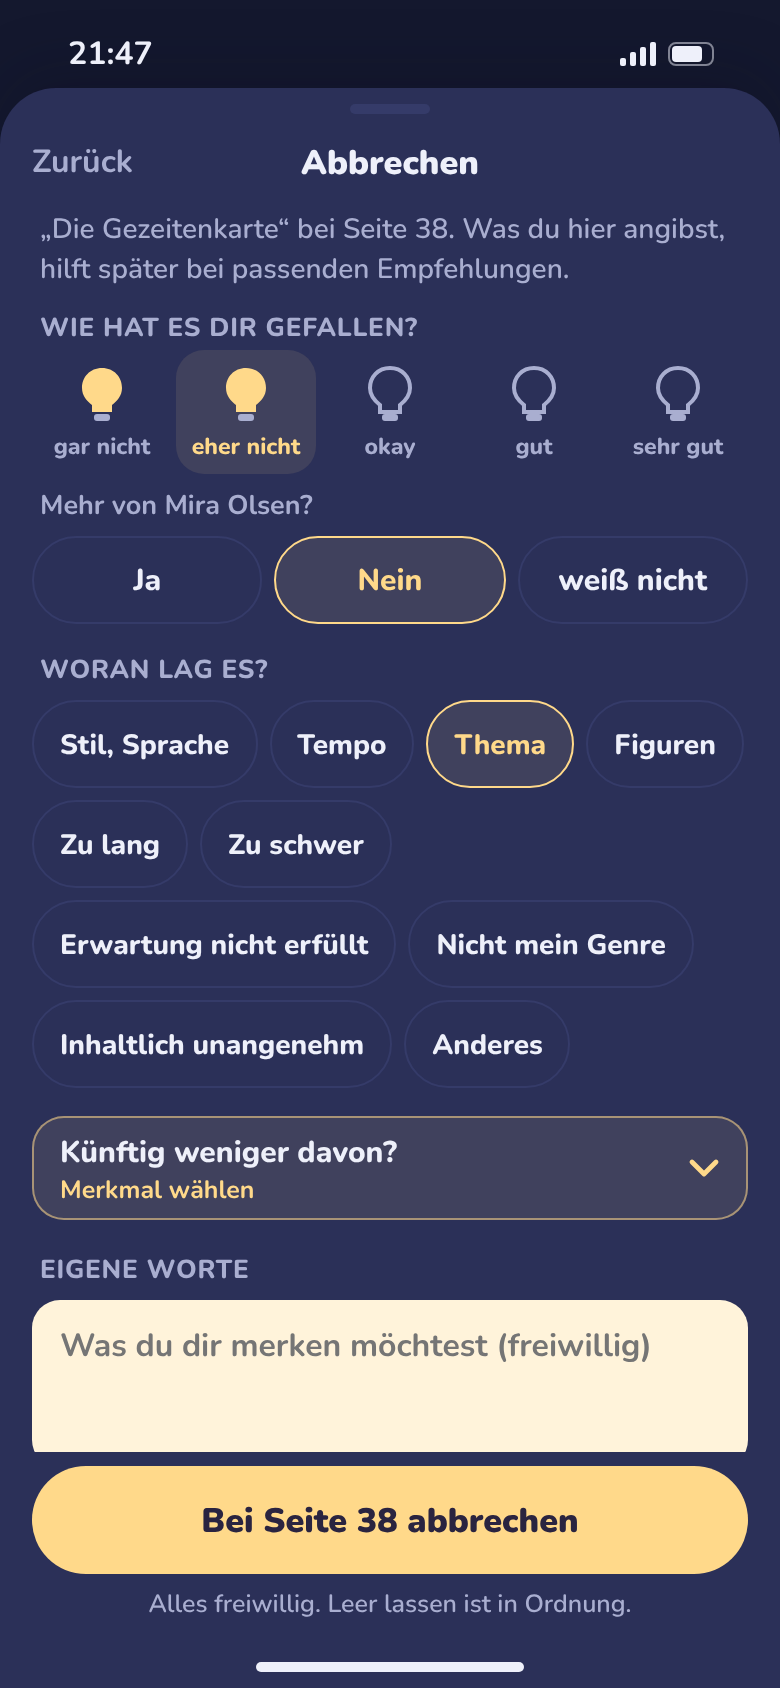
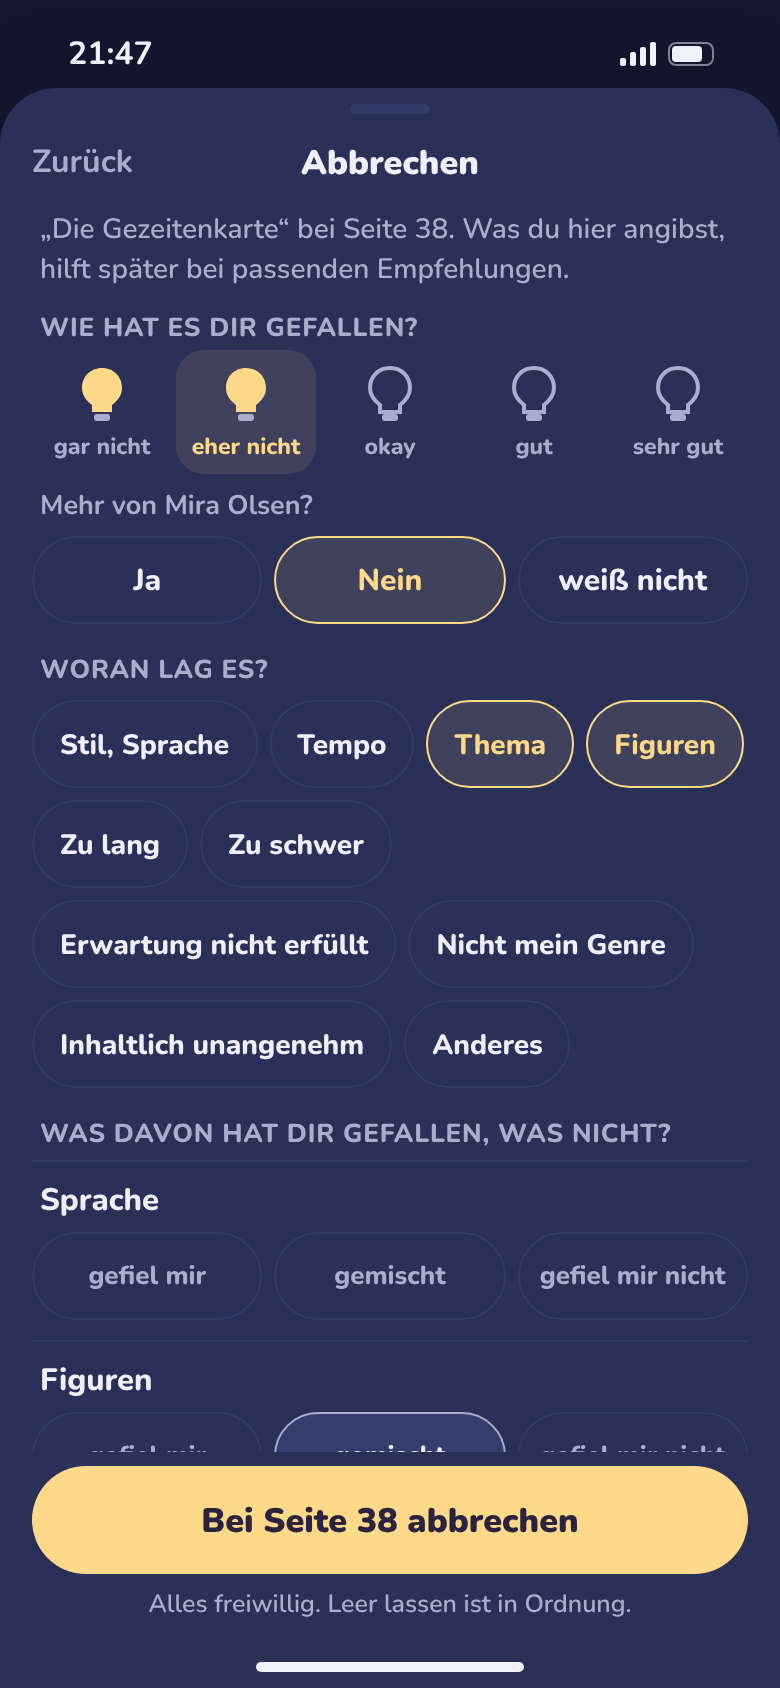
Prototyp: drei Knöpfe je Aspekt, weiß nicht als eigener Zustand, F4 setzt F3 sichtbar
Claude-Session: https://claude.ai/code/session_01XFBEjrJEUrXQYaFeZnVBdK

diff --git a/prototyp/designer/3-charakter/LichtAn.dc.html b/prototyp/designer/3-charakter/LichtAn.dc.html
@@ -563,18 +563,6 @@ input[type=search]::-webkit-search-cancel-button{display:none}
 <sc-for list="{{rv.again}}" as="o" hint-placeholder-count="3"><button type="button" role="radio" aria-checked="{{o.checked}}" onClick="{{o.pick}}" style="{{o.style}}">{{o.label}}</button></sc-for>
 </div>
 
-<sc-if value="{{rv.isRead}}" hint-placeholder-val="{{ true }}">
-<h3 style="margin: 14px 4px 4px 4px; font-size: 13px; font-weight: 800; color: var(--mute); letter-spacing: .03em">WAS HAT DIR GEFALLEN, WAS NICHT?</h3>
-<div role="list">
-<sc-for list="{{rv.aspects}}" as="a" hint-placeholder-count="5">
-<div role="listitem" style="display: flex; align-items: center; gap: 6px; min-height: 50px; border-top: 1px solid var(--line)">
-<span style="flex: 1; font-size: 15.5px; font-weight: 800; padding-left: 4px">{{a.label}}</span>
-<button type="button" aria-pressed="{{a.likePressed}}" aria-label="{{a.likeAria}}" onClick="{{a.like}}" style="{{a.likeStyle}}">gefiel mir</button>
-<button type="button" aria-pressed="{{a.dislikePressed}}" aria-label="{{a.dislikeAria}}" onClick="{{a.dislike}}" style="{{a.dislikeStyle}}">gefiel mir nicht</button>
-</div>
-</sc-for>
-</div>
-</sc-if>
 <sc-if value="{{rv.isDrop}}" hint-placeholder-val="{{ false }}">
 <h3 style="margin: 14px 4px 6px 4px; font-size: 13px; font-weight: 800; color: var(--mute); letter-spacing: .03em">WORAN LAG ES?</h3>
 <div role="group" aria-label="Gründe" style="display: flex; flex-wrap: wrap; gap: 6px">
@@ -587,6 +575,19 @@ input[type=search]::-webkit-search-cancel-button{display:none}
 </div>
 </sc-if>
 </sc-if>
+
+
+<h3 style="margin: 14px 4px 4px 4px; font-size: 13px; font-weight: 800; color: var(--mute); letter-spacing: .03em">WAS DAVON HAT DIR GEFALLEN, WAS NICHT?</h3>
+<div role="list">
+<sc-for list="{{rv.aspects}}" as="a" hint-placeholder-count="5">
+<div role="listitem" style="padding: 8px 0 10px 0; border-top: 1px solid var(--line)">
+<div style="display: flex; align-items: baseline; gap: 8px; padding: 0 4px 6px 4px"><span style="font-size: 15.5px; font-weight: 800">{{a.label}}</span><sc-if value="{{a.fromReason}}" hint-placeholder-val="{{ false }}"><span style="font-size: 12px; font-weight: 700; color: var(--acc)">aus deinem Abbruchgrund</span></sc-if></div>
+<div role="radiogroup" aria-label="{{a.label}}" style="display: grid; grid-template-columns: 1fr 1fr 1fr; gap: 6px">
+<sc-for list="{{a.opts}}" as="o" hint-placeholder-count="3"><button type="button" role="radio" aria-checked="{{o.checked}}" aria-label="{{o.aria}}" onClick="{{o.pick}}" style="{{o.style}}">{{o.label}}</button></sc-for>
+</div>
+</div>
+</sc-for>
+</div>
 
 <sc-if value="{{rv.avoidHighlight}}" hint-placeholder-val="{{ false }}">
 <button type="button" aria-expanded="{{rv.avoidExpanded}}" onClick="{{rv.toggleAvoid}}" style="margin-top: 14px; width: 100%; min-height: 52px; display: flex; align-items: center; justify-content: space-between; gap: 10px; border: none; border-radius: 16px; background: var(--accBg); box-shadow: inset 0 0 0 1px var(--accLine); padding: 0 14px; cursor: pointer; text-align: left; color: var(--ink)">
@@ -704,8 +705,11 @@ var AGAIN = [['ja', 'Ja'], ['vielleicht', 'Vielleicht'], ['nein', 'Eher nicht']]
 var STAR_WORDS = ['noch offen', 'gar nicht', 'eher nicht', 'okay', 'gut', 'sehr gut'];
 var ASPECTS_ROMAN = ['Sprache', 'Figuren', 'Handlung', 'Atmosphäre', 'Thema'];
 var ASPECTS_SACH = ['Verständlichkeit', 'Tiefe', 'Thema'];
+var REASON_TO_ASPECT = { 'Stil, Sprache': 'Sprache', 'Figuren': 'Figuren', 'Thema': 'Thema' };
+var TEMPO_LABEL = { zu_langsam: 'zu langsam', passend: 'passend', zu_schnell: 'zu schnell' };
+var AGAIN_LABEL = { ja: 'Ja', nein: 'Nein', unsicher: 'weiß nicht' };
 var MORE_GROUPS = [
-  ['tempoMe', 'Tempo für mich', ['zu langsam', 'passend', 'zu schnell'], false]
+  ['tempoMe', 'Tempo für mich', ['zu_langsam', 'passend', 'zu_schnell'], false]
 ];
 var FEATURES = {
   salz: { genre: 'Roman der Gegenwart', themes: ['Familie', 'Meer', 'Heimat'], tone: 'melancholisch', pages: 384 },
@@ -730,7 +734,7 @@ function featureValues(id) {
   if (f.content) out.push({ dimension: 'content', value_id: slug(f.content), label: f.content });
   return out;
 }
-function blankRating() { return { stars: 0, asp: {}, reasons: [], text: '', tempoMe: '', again: '', avoid: [] }; }
+function blankRating() { return { stars: 0, asp: {}, aspFrom: {}, reasons: [], text: '', tempoMe: '', again: '', avoid: [] }; }
 var COUNTS = { gelesen: 148, ungelesen: 61, wunsch: 23, abgebrochen: 6, regale: 5, verliehen: 2 };
 var VOLS = {
   gelesen: { name: 'Gelesen', sub: 'Zu Ende gelesen, mit deinen eigenen Worten.', search: 'In 148 gelesenen Büchern suchen' },
@@ -804,8 +808,8 @@ class Component extends DCLogic {
       dropped: [{ id: 'fluss', when: 'Mai 2026' }],
       finished: [], rate: null, rd: blankRating(), moreOpen: false, avoidOpen: false,
       ratings: {
-        uhr: { stars: 5, asp: { Sprache: 'like', Figuren: 'like', Handlung: 'like', Atmosphäre: 'like' }, reasons: [], text: '', tempoMe: 'passend', again: 'Ja', avoid: [] },
-        fluss: { stars: 2, asp: {}, reasons: ['Tempo', 'Zu lang'], text: 'Schöne Sätze, aber nach 80 Seiten ist noch nichts passiert.', tempoMe: 'zu langsam', again: 'weiß nicht', avoid: [] }
+        uhr: { stars: 5, asp: { Sprache: 'like', Figuren: 'like', Handlung: 'like', Atmosphäre: 'like' }, reasons: [], text: '', tempoMe: 'passend', again: 'ja', avoid: [] },
+        fluss: { stars: 2, asp: {}, reasons: ['Tempo', 'Zu lang'], text: 'Schöne Sätze, aber nach 80 Seiten ist noch nichts passiert.', tempoMe: 'zu_langsam', again: 'unsicher', avoid: [] }
       },
       reasons: [], note: '', volNotice: '' };
   }
@@ -934,12 +938,14 @@ class Component extends DCLogic {
       rateLines: (function () {
         if (!rt) return [];
         var out = [], likes = [], dis = [];
-        Object.keys(rt.asp).forEach(function (k) { if (rt.asp[k] === 'like') likes.push(k); else if (rt.asp[k] === 'dislike') dis.push(k); });
+        var mixed = [];
+        Object.keys(rt.asp).forEach(function (k) { if (rt.asp[k] === 'like') likes.push(k); else if (rt.asp[k] === 'dislike') dis.push(k); else if (rt.asp[k] === 'mixed') mixed.push(k); });
         if (likes.length) out.push({ k: 'Gefiel mir', v: likes.join(', ') });
+        if (mixed.length) out.push({ k: 'Gemischt', v: mixed.join(', ') });
         if (dis.length) out.push({ k: 'Gefiel mir nicht', v: dis.join(', ') });
         if (rt.reasons.length) out.push({ k: 'Woran es lag', v: rt.reasons.join(', ') });
-        if (rt.tempoMe) out.push({ k: 'Tempo für mich', v: rt.tempoMe });
-        if (rt.again) out.push({ k: 'Mehr davon?', v: rt.again });
+        if (rt.tempoMe) out.push({ k: 'Tempo für mich', v: TEMPO_LABEL[rt.tempoMe] || rt.tempoMe });
+        if (rt.again) out.push({ k: 'Mehr davon?', v: AGAIN_LABEL[rt.again] || rt.again });
         if (b.vol === 'abgebrochen' && rt.text) out.push({ k: 'Eigene Worte', v: '„' + rt.text + '“' });
         return out;
       })(),
@@ -1007,6 +1013,7 @@ class Component extends DCLogic {
       var R0 = s.rate, rd = s.rd, isDrop = R0.kind === 'drop' || R0.kind === 'editDrop';
       var bk = lib[R0.id] || BOOKS.filter(function (x) { return x.id === R0.id; })[0] || {};
       var upd = function (patch) { self.setState({ rd: Object.assign({}, rd, patch) }); };
+      var aspectList = bk.sach ? ASPECTS_SACH : ASPECTS_ROMAN;
       var pill = function (on) { return 'min-height: 44px; padding: 0 13px; border-radius: 22px; cursor: pointer; font-size: 14px; font-weight: 800; border: 1.5px solid ' + (on ? 'var(--acc)' : 'var(--line)') + '; background: ' + (on ? 'var(--accBg)' : 'transparent') + '; color: ' + (on ? 'var(--acc)' : 'var(--ink)'); };
       var aspectBtn = function (on, bad) { return 'flex-shrink: 0; min-height: 44px; padding: 0 10px; border-radius: 22px; cursor: pointer; font-size: 12.5px; font-weight: 800; border: 1.5px solid ' + (on ? (bad ? 'var(--mute)' : 'var(--acc)') : 'var(--line)') + '; background: ' + (on ? (bad ? 'var(--field)' : 'var(--accBg)') : 'transparent') + '; color: ' + (on ? (bad ? 'var(--ink)' : 'var(--acc)') : 'var(--mute)'); };
       var tempoReason = isDrop && rd.reasons.indexOf('Tempo') >= 0;
@@ -1023,9 +1030,9 @@ class Component extends DCLogic {
         intro: isDrop ? '„' + bk.title + '“ bei Seite ' + (s.pages[R0.id] || 0) + '. Was du hier angibst, hilft später bei passenden Empfehlungen.' : '„' + bk.title + '“' + (R0.kind === 'read' ? ' ist ausgelesen.' : ':') + ' Tippe nur an, was dir einfällt.',
         word: STAR_WORDS[rd.stars],
         againLabel: 'Mehr von ' + (bk.author || 'dieser Person') + '?',
-        again: ['Ja', 'Nein', 'weiß nicht'].map(function (o) { var on = rd.again === o; return { label: o, checked: on ? 'true' : 'false', style: seg(on), pick: function () { upd({ again: on ? '' : o }); } }; }),
+        again: ['ja', 'nein', 'unsicher'].map(function (o) { var on = rd.again === o; return { label: AGAIN_LABEL[o], checked: on ? 'true' : 'false', style: seg(on), pick: function () { upd({ again: on ? '' : o }); } }; }),
         showTempoDetail: tempoReason,
-        tempoDetail: ['zu langsam', 'zu schnell'].map(function (o) { var on = rd.tempoMe === o; return { label: o, checked: on ? 'true' : 'false', style: pill(on), pick: function () { upd({ tempoMe: on ? '' : o }); } }; }),
+        tempoDetail: ['zu_langsam', 'zu_schnell'].map(function (o) { var on = rd.tempoMe === o; return { label: TEMPO_LABEL[o], checked: on ? 'true' : 'false', style: pill(on), pick: function () { upd({ tempoMe: on ? '' : o }); } }; }),
         moreVisible: s.moreOpen && groupsVis.length > 0,
         stars: [1, 2, 3, 4, 5].map(function (i) { return { aria: i + ' von 5, ' + STAR_WORDS[i], label: STAR_WORDS[i], checked: rd.stars === i ? 'true' : 'false', bulb: i <= rd.stars ? 'fill: var(--bulb)' : 'fill: none; stroke: var(--mute); stroke-width: 2',
           style: 'min-height: 62px; border: none; border-radius: 14px; background: ' + (rd.stars === i ? 'var(--accBg)' : 'none') + '; cursor: pointer; display: flex; flex-direction: column; align-items: center; justify-content: center; gap: 3px; padding: 4px 0',
@@ -1048,13 +1055,21 @@ class Component extends DCLogic {
             lessAria: name + ': seltener', neverAria: name + ': nicht empfehlen', lessStyle: avoidBtn(v === 'seltener', false), neverStyle: avoidBtn(v === 'never', true),
             less: function () { set('seltener'); }, never: function () { set('never'); } };
         }),
-        aspects: (bk.sach ? ASPECTS_SACH : ASPECTS_ROMAN).map(function (a) {
+        aspects: aspectList.map(function (a) {
           var v = rd.asp[a] || '';
-          var set = function (val) { var m = Object.assign({}, rd.asp); if (m[a] === val) delete m[a]; else m[a] = val; upd({ asp: m }); };
-          return { label: a, likePressed: v === 'like' ? 'true' : 'false', dislikePressed: v === 'dislike' ? 'true' : 'false', likeAria: a + ': gefiel mir', dislikeAria: a + ': gefiel mir nicht',
-            likeStyle: aspectBtn(v === 'like', false), dislikeStyle: aspectBtn(v === 'dislike', true), like: function () { set('like'); }, dislike: function () { set('dislike'); } };
+          var set = function (val) { var m = Object.assign({}, rd.asp); var f = Object.assign({}, rd.aspFrom || {}); if (m[a] === val) delete m[a]; else m[a] = val; delete f[a]; upd({ asp: m, aspFrom: f }); };
+          return { label: a, fromReason: !!(rd.aspFrom && rd.aspFrom[a]) && v === 'dislike',
+            opts: [['like', 'gefiel mir'], ['mixed', 'gemischt'], ['dislike', 'gefiel mir nicht']].map(function (o) {
+              var on = v === o[0];
+              return { label: o[1], checked: on ? 'true' : 'false', aria: a + ': ' + o[1], pick: function () { set(o[0]); },
+                style: 'min-height: 44px; padding: 0 4px; border-radius: 22px; cursor: pointer; font-size: 13px; font-weight: 800; white-space: nowrap; border: 1.5px solid ' + (on ? (o[0] === 'like' ? 'var(--acc)' : 'var(--mute)') : 'var(--line)') + '; background: ' + (on ? (o[0] === 'like' ? 'var(--accBg)' : 'var(--field)') : 'transparent') + '; color: ' + (on ? (o[0] === 'like' ? 'var(--acc)' : 'var(--ink)') : 'var(--mute)') };
+            }) };
         }),
-        reasons: DROP_REASONS.map(function (r) { var on = rd.reasons.indexOf(r) >= 0; return { label: r, pressed: on ? 'true' : 'false', style: pill(on), toggle: function () { var x = rd.reasons.slice(); var k = x.indexOf(r); var p = {}; if (k >= 0) { x.splice(k, 1); if (r === 'Tempo') p.tempoMe = ''; } else x.push(r); p.reasons = x; upd(p); } }; }),
+        reasons: DROP_REASONS.map(function (r) { var on = rd.reasons.indexOf(r) >= 0; return { label: r, pressed: on ? 'true' : 'false', style: pill(on), toggle: function () {
+          var x = rd.reasons.slice(); var k = x.indexOf(r); var p = {}; var asp = Object.assign({}, rd.asp); var from = Object.assign({}, rd.aspFrom || {}); var target = REASON_TO_ASPECT[r];
+          if (k >= 0) { x.splice(k, 1); if (r === 'Tempo') p.tempoMe = ''; if (target && from[target] && asp[target] === 'dislike') { delete asp[target]; delete from[target]; } }
+          else { x.push(r); if (target && aspectList.indexOf(target) >= 0 && !asp[target]) { asp[target] = 'dislike'; from[target] = r; } }
+          p.reasons = x; p.asp = asp; p.aspFrom = from; upd(p); } }; }),
         textLabel: isDrop ? 'EIGENE WORTE' : 'MEINE LESART', textHint: isDrop ? 'Was du dir merken möchtest (freiwillig)' : 'Was ist dir geblieben? Ein Satz reicht.', text: rd.text,
         setText: function (e) { upd({ text: e.target.value }); },
         moreOpen: s.moreOpen, moreExpanded: s.moreOpen ? 'true' : 'false', toggleMore: function () { self.setState({ moreOpen: !s.moreOpen }); },
@@ -1063,12 +1078,12 @@ class Component extends DCLogic {
         groups: groupsVis.map(function (g) {
           return { label: g[1], opts: g[2].map(function (o) {
             var on = g[3] ? rd[g[0]].indexOf(o) >= 0 : rd[g[0]] === o;
-            return { label: o, pressed: on ? 'true' : 'false', style: pill(on), pick: function () { var p = {}; if (g[3]) { var x = rd[g[0]].slice(); var k = x.indexOf(o); if (k >= 0) x.splice(k, 1); else x.push(o); p[g[0]] = x; } else p[g[0]] = on ? '' : o; upd(p); } };
+            return { label: TEMPO_LABEL[o] || o, pressed: on ? 'true' : 'false', style: pill(on), pick: function () { var p = {}; if (g[3]) { var x = rd[g[0]].slice(); var k = x.indexOf(o); if (k >= 0) x.splice(k, 1); else x.push(o); p[g[0]] = x; } else p[g[0]] = on ? '' : o; upd(p); } };
           }) };
         }),
         saveLabel: R0.kind === 'drop' ? 'Bei Seite ' + (s.pages[R0.id] || 0) + ' abbrechen' : 'Speichern',
         save: function () {
-          var clean = Object.assign({}, rd, { asp: isDrop ? {} : rd.asp, reasons: isDrop ? rd.reasons : [] });
+          var clean = Object.assign({}, rd, { reasons: isDrop ? rd.reasons : [] });
           var r = Object.assign({}, s.ratings); r[R0.id] = clean;
           var patch = { ratings: r, sheet: null, rate: null };
           if (R0.kind === 'drop') { patch.active = act.filter(function (x) { return x !== R0.id; }); patch.paused = s.paused.filter(function (x) { return x.id !== R0.id; }); patch.dropped = s.dropped.concat([{ id: R0.id, when: 'Oktober 2026' }]); patch.saved = 'Abgebrochen bei Seite ' + (s.pages[R0.id] || 0) + '.'; }

diff --git a/prototyp/designer/3-charakter/KONZEPT.md b/prototyp/designer/3-charakter/KONZEPT.md
@@ -267,3 +267,9 @@ Grundlage: ENTSCHEIDUNGSVORLAGE-USP3.md, Abschnitte 2 und 8. Screens in `screens
   - Auf der Buchseite stehen die Einträge unter „Künftig weniger, für alle Empfehlungen“, z. B. „Seltener: Thema Meer“, jeweils mit „entfernen“.
   - Geprüft in screens5/10b–10f (wählen, speichern, sehen, entfernen) und 13–14 (Abbruch mit „Thema Verlust: seltener“ und „Ton ruhig: nicht empfehlen“).
 - **Wording und Platz (24.10.2026):** Die Aspekt-Knöpfe heißen „gefiel mir“ / „gefiel mir nicht“, auf der Buchseite „Gefiel mir“ / „Gefiel mir nicht“. Nichts gewählt heißt keine Aussage. „Künftig weniger davon?“ ist auch bei 1–2 Lichtern und beim Abbruch zugeklappt: eine dezent hervorgehobene Zeile mit „Merkmal wählen“ bzw. der Zahl der Angaben (screens5/10a, 13b).
+- **BEWERTUNGSBOGEN.md, Abschnitte 1 und 2.6, umgesetzt:**
+  - F3 „Was davon hat dir gefallen, was nicht?“: Je Zeile steht der Aspektname oben, darunter drei gleich breite Knöpfe (gefiel mir · gemischt · gefiel mir nicht, je mindestens 44 pt). Kodiert als like / mixed / dislike, leer heißt keine Aussage.
+  - F2 speichert `ja` / `nein` / `unsicher`; „weiß nicht“ ist ein eigener Zustand, nicht leer.
+  - Beim Abbruch steht F4 vor F3. „Stil, Sprache“, „Figuren“ und „Thema“ setzen die passende F3-Zeile sichtbar auf „gefiel mir nicht“, mit dem Hinweis „aus deinem Abbruchgrund“. Ändert man die Zeile, verschwindet der Hinweis; wählt man den Grund ab, wird die mitgesetzte Zeile wieder leer. Je Werk und Aspekt gibt es nur einen Eintrag (`asp`, Herkunft in `aspFrom`).
+  - F5 speichert die Richtung `zu_langsam` / `passend` / `zu_schnell`.
+  - Screens: screens5/03 (gemischt), 12d (Figuren mitgesetzt), 12e (geändert auf gemischt).
